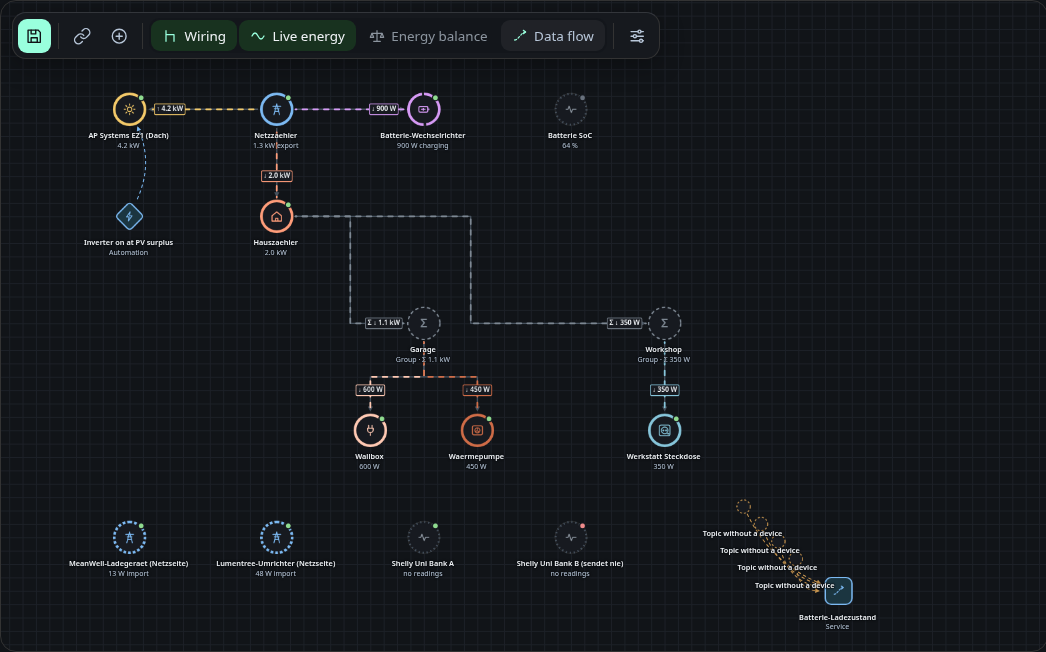
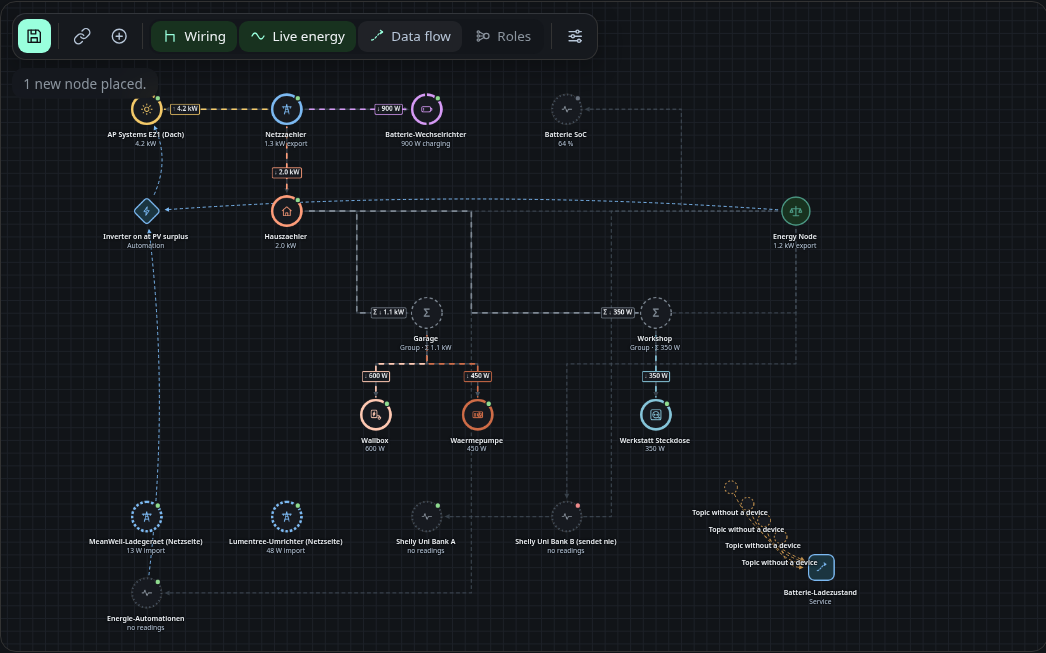
docs(devicemap): describe fixed direction and reversing, retake the device map screenshots

diff --git a/docs/dashboard/device-map.md b/docs/dashboard/device-map.md
@@ -58,8 +58,12 @@ that both measure power counts as energy, every other one as data. Such a
 detected type is marked in the card.
 
 For an energy connection the flow direction is automatic by default, taken
-from the sign of the measurement. Reversed turns it round, and Always to fixes
-it to one end. A connection you drew yourself can be reversed in the same card.
+from the sign of the measurement. Reversed turns it round. Under Fixed
+direction the flow always runs toward one of the two ends, whatever the sign.
+
+A connection you drew yourself can be reversed in the same card, which swaps
+parent and child. Connections that come from discovery and feeds into a group
+cannot be reversed, but their flow direction can still be set.
 
 ## Device panel
 
@@ -102,7 +106,7 @@ value a rule compares against is visible here without the Roles layer.
 
 ## Roles layer
 
-![Energy balance layer](../images/dashboard-device-map-balance.png)
+![Roles layer](../images/dashboard-device-map-balance.png)
 
 The Roles layer connects every device with an energy role to the Energy Node, in
 the colour of its role. The Energy Node is the balance itself, the device the
